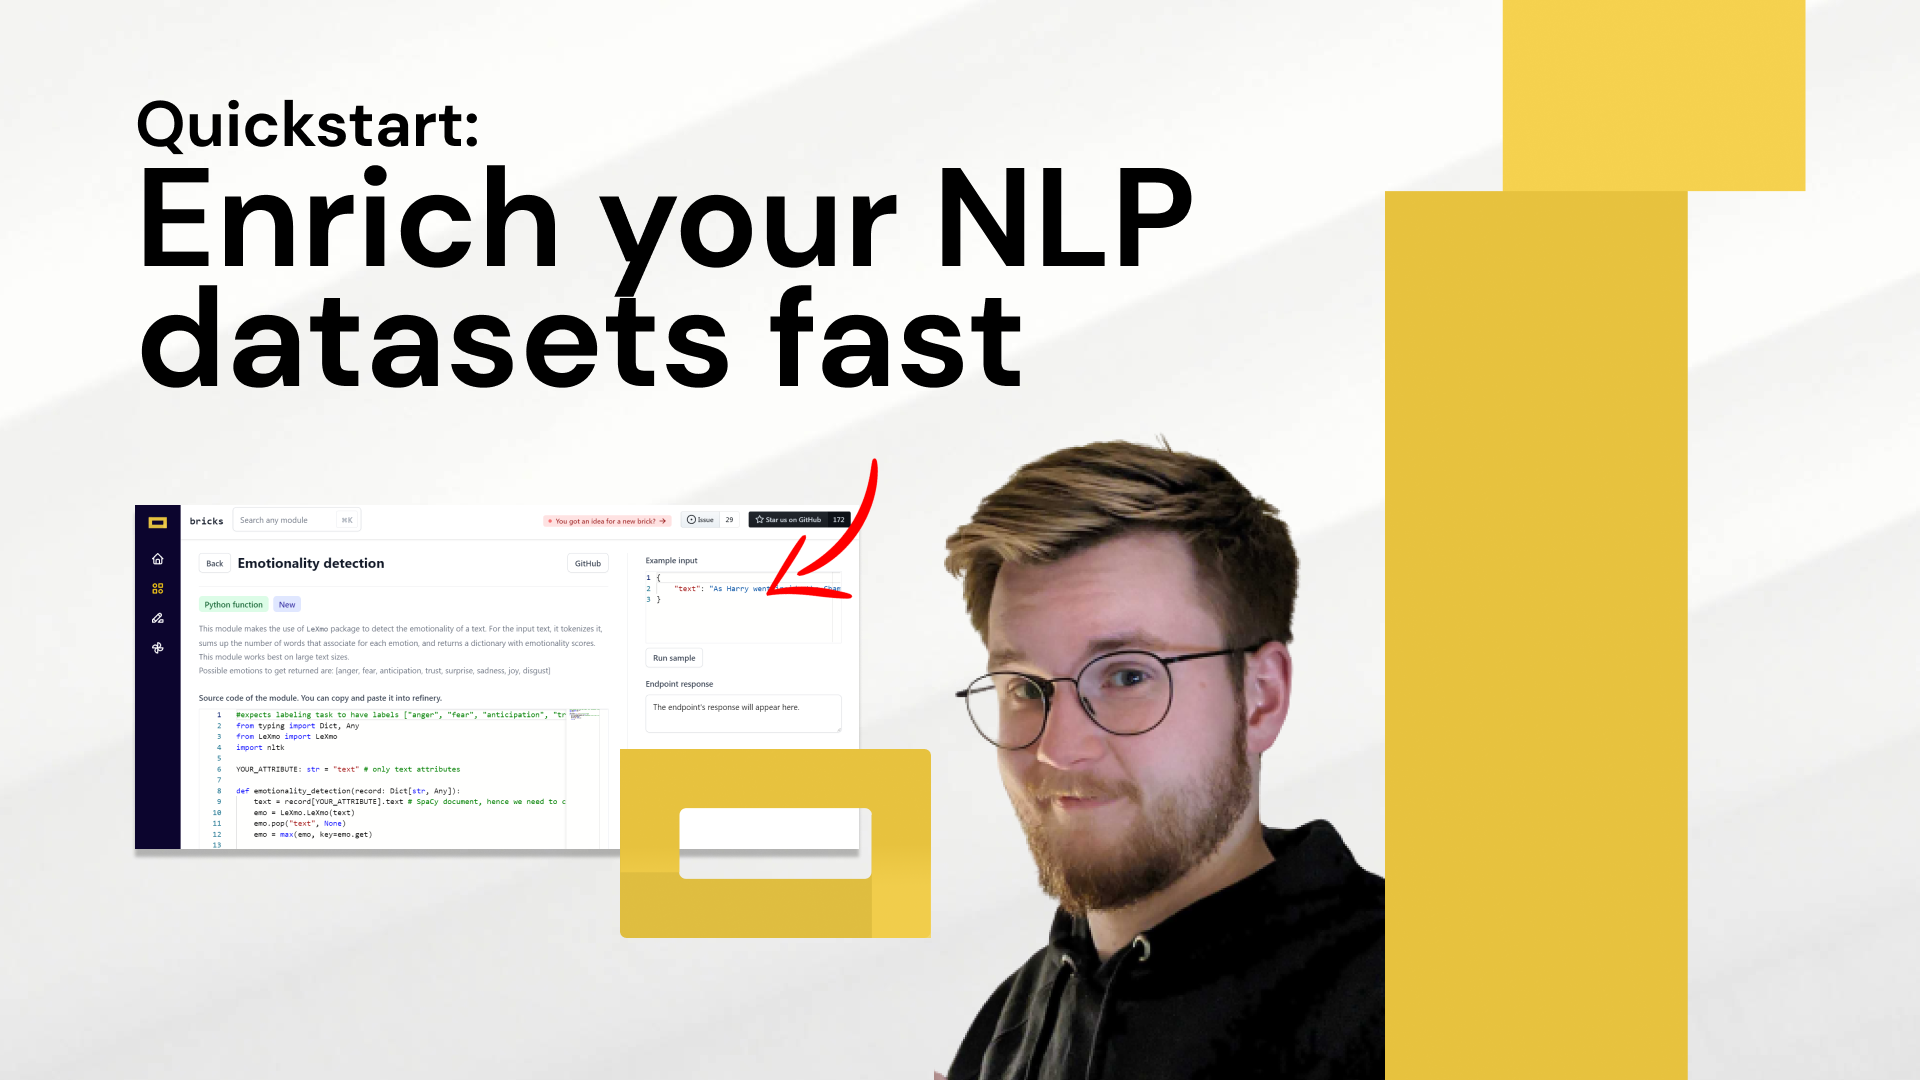
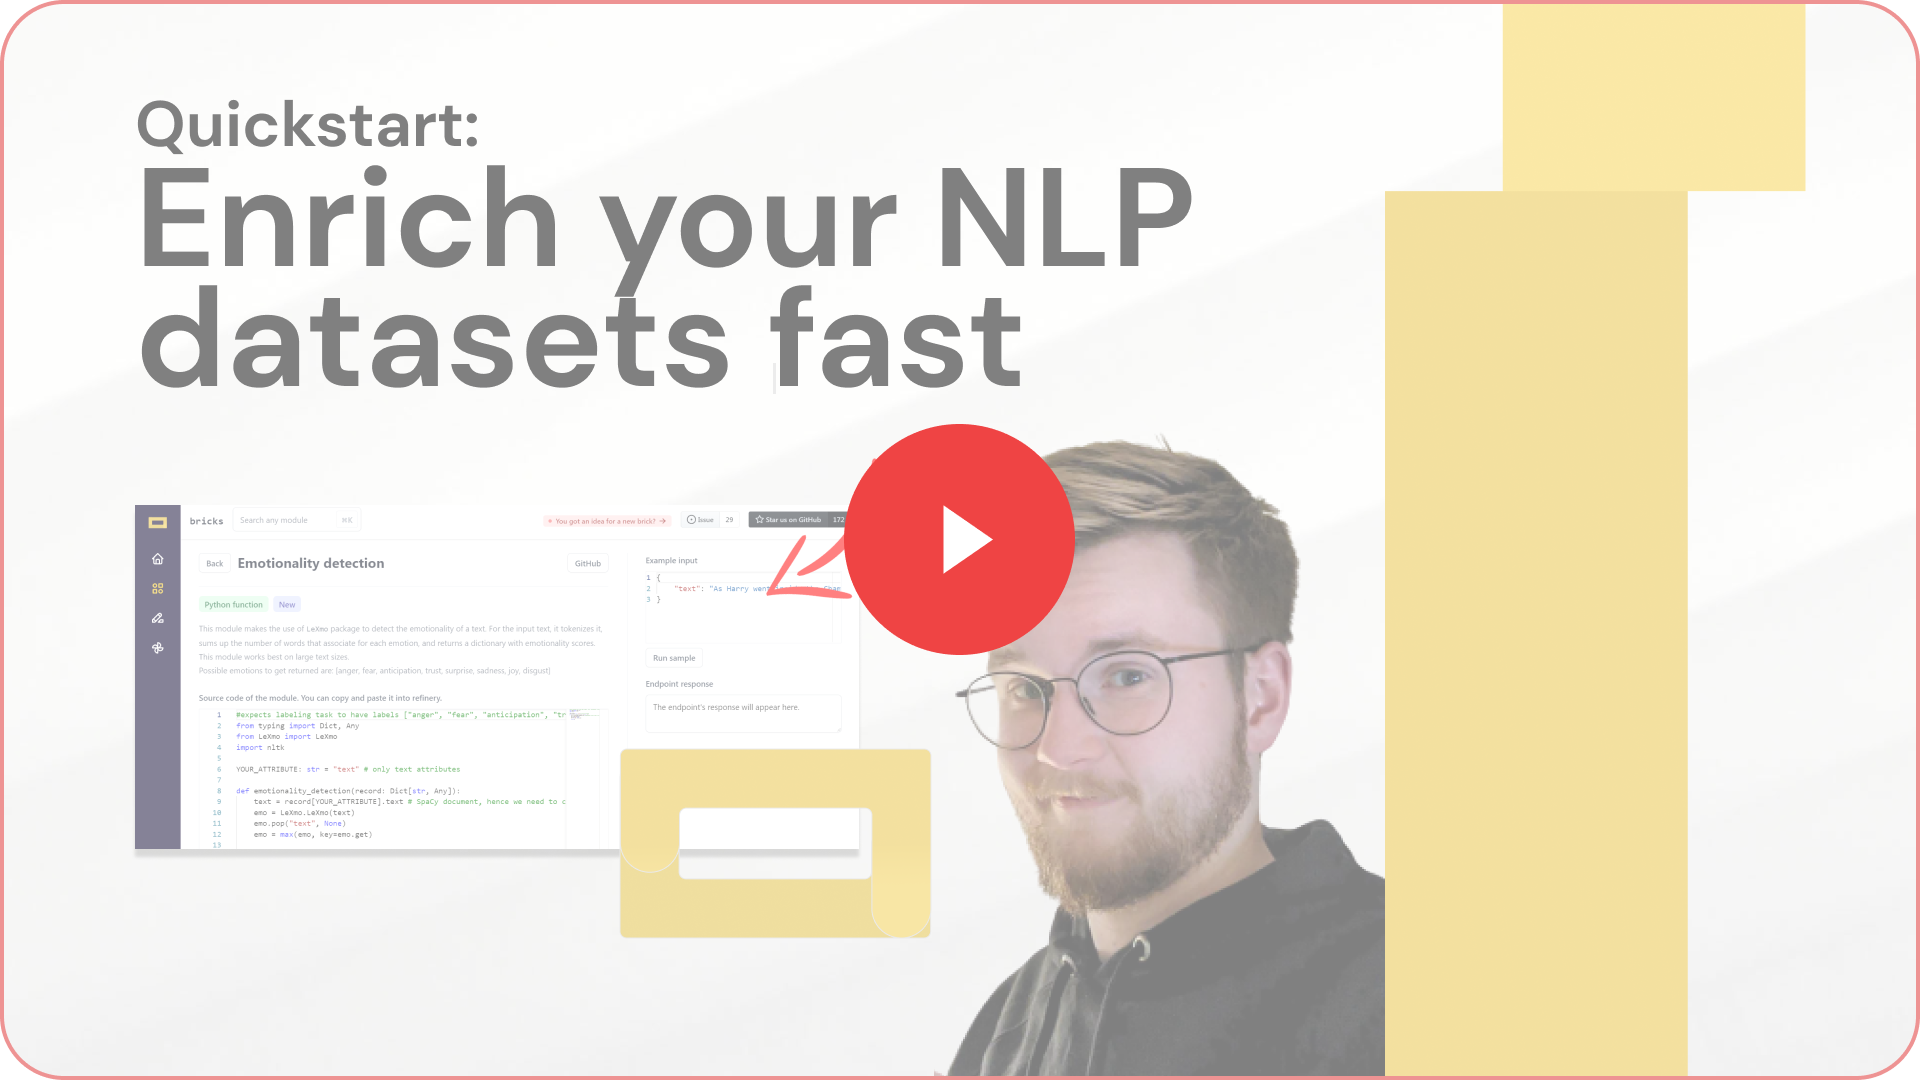
updated demo video thumbnail

diff --git a/README.md b/README.md
@@ -35,8 +35,9 @@ Browse [bricks](https://bricks.kern.ai) to find gold nuggets for your projects; 
 We're aiming to build a library of off-the-shelf natural language enrichments that can be used in any project as well as directly in our main project [refinery](https://github.com/code-kern-ai/refinery). We're building `bricks` to make it easier for developers to build better products. That's where the name comes from. `bricks` is a library not in the sense that you `pip install` it in your repository, but that you can copy-paste the code from the online platform. 
 
 ## Demo
-![https://www.youtube.com/watch?v=Wcbdwwr5AI8&ab_channel=KernAI](images/thumbnail-bricks.png)
+[![Demo](images/thumbnail-bricks.png)](https://www.youtube.com/watch?v=Wcbdwwr5AI8&ab_channel=KernAI)
 Click on the image or [here](https://www.youtube.com/watch?v=Wcbdwwr5AI8&ab_channel=KernAI) to watch the demo.
+
 
 ## What are classifiers, extractors and generators?
 We generally summarize them as modules in this repository.
